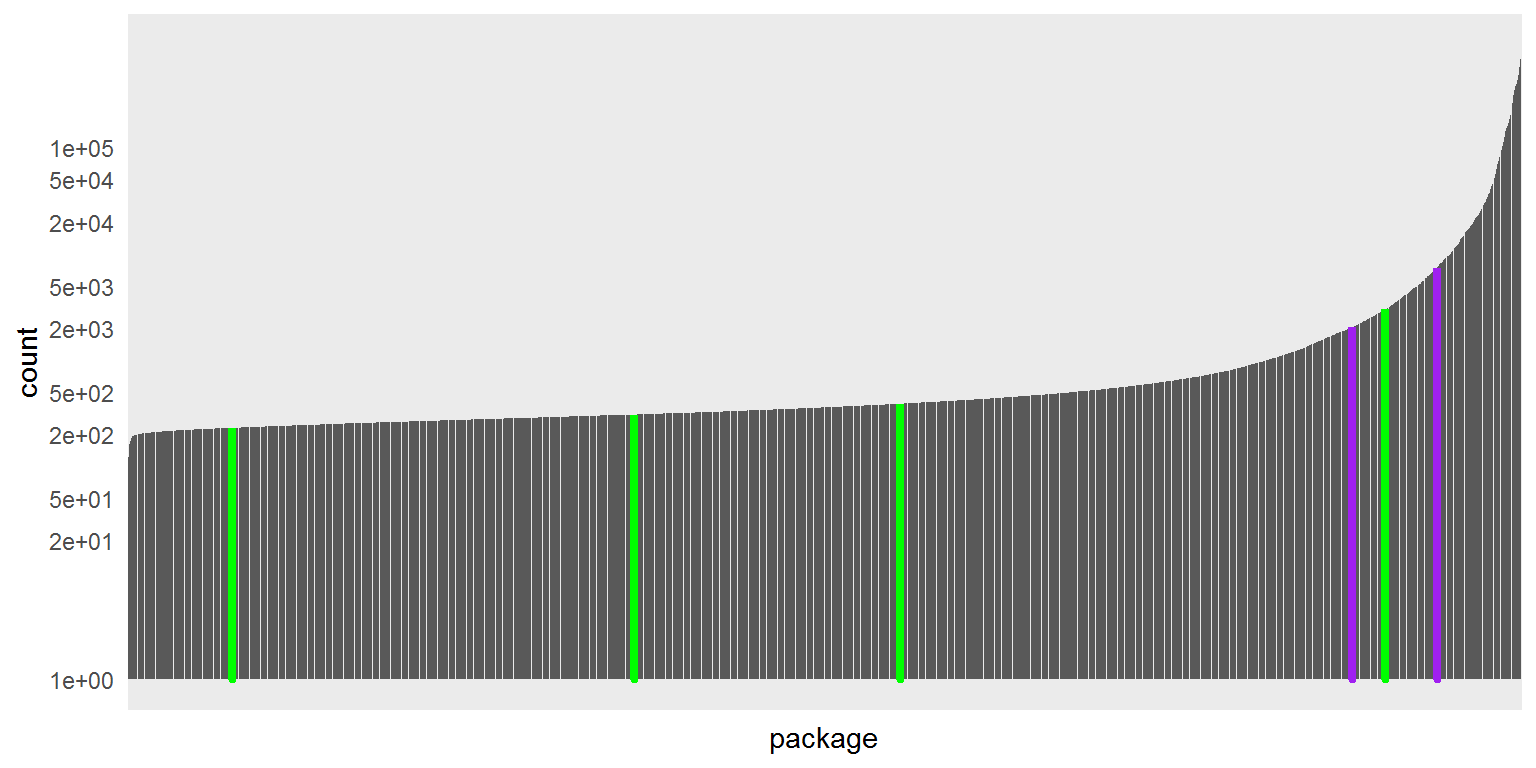
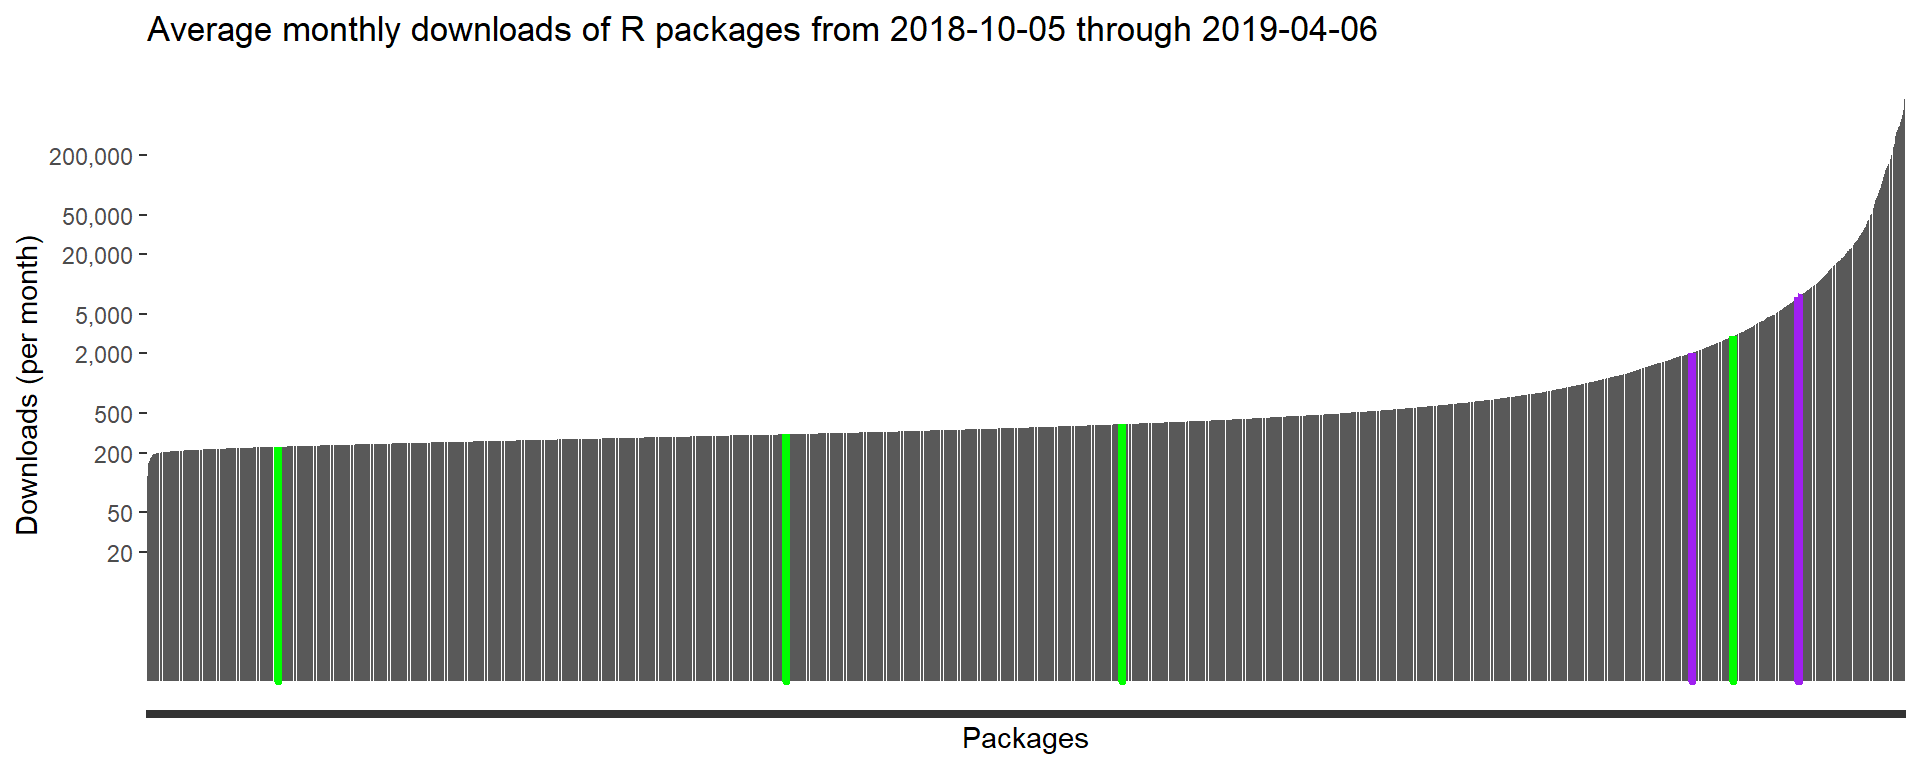
Revised CRAN package downloads post.

Changed region(s): [[0.0, 0.125, 1.0, 1.0], [0.0625, 0.0, 0.7188, 0.0625]]

diff --git a/content/post/CRAN-package-downloads.html b/content/post/CRAN-package-downloads.html
@@ -17,11 +17,17 @@ header:
 
 
 <p>At AERA this past weekend, one of the recurring themes was how software availability (and its usability and default features) influences how people conduct meta-analyses. That got me thinking about the R packages that I’ve developed, how to understand the extent to which people are using them, how they’re being used, and so on. I’ve had badges on my github repos for a while now:</p>
-<p>These statistics come from the <a href="https://www.r-pkg.org/">METACRAN</a> site, which makes available data on daily downloads of all packages on CRAN (one of the main repositories for sharing R packages). The downloads are from the RStudio mirror of CRAN, which is only one of many mirrors around the world. So, although the data do not represent complete tallies of all package downloads, they are nonetheless the best available source that I’m aware of.</p>
-<p>The thing is, the download numbers are pretty hard to interpret. Beyond knowing that somebody out there is at least <em>trying</em> to use the tools I’ve made, it’s pretty hard to gauge whether 300 or 3000 or 3 million downloads a month is a good usage level. In this post, I’ll attempt to put just a little bit of context around these numbers. Emphasis on <em>little bit</em>, as I’m not at all satisfied with what I’ll show below, but at least it’s something beyond four numbers floating in the air.</p>
+<ul>
+<li>clubSandwich: <a href="https://CRAN.R-project.org/package=clubSandwich"><img src="http://cranlogs.r-pkg.org/badges/last-month/clubSandwich" /></a></li>
+<li>ARPobservation: <a href="https://CRAN.R-project.org/package=ARPobservation"><img src="http://cranlogs.r-pkg.org/badges/last-month/ARPobservation" /></a></li>
+<li>scdhlm: <a href="https://CRAN.R-project.org/package=scdhlm"><img src="http://cranlogs.r-pkg.org/badges/last-month/scdhlm" /></a></li>
+<li>SingleCaseES: <a href="https://CRAN.R-project.org/package=SingleCaseES"><img src="http://cranlogs.r-pkg.org/badges/last-month/SingleCaseES" /></a></li>
+</ul>
+<p>These statistics come from the <a href="https://www.r-pkg.org/">METACRAN</a> site, which makes available data on daily downloads of all packages on CRAN (one of the main repositories for sharing R packages). The downloads are from the RStudio mirror of CRAN, which is only one of many mirrors around the world. Although the data do not represent complete tallies of all package downloads, they are nonetheless the best available source that I’m aware of.</p>
+<p>The thing is, the download numbers are rather hard to interpret. Beyond knowing that somebody out there is at least <em>trying</em> to use the tools I’ve made, it’s pretty hard to gauge whether 300 or 3000 or 3 million downloads a month is a good usage level. In this post, I’ll attempt to put just a little bit of context around these numbers. Emphasis on <em>little bit</em>, as I’m not at all satisfied with what I’ll show below, but at least it’s something beyond four numbers floating in the air.</p>
 <div id="getting-package-download-data" class="section level3">
 <h3>Getting package download data</h3>
-<p>Below I use the <code>cranlogs</code> package to get daily download counts of all currently available CRAN packages over the period 2018-04-06 through 2019-04-06. I then limited the sample to packages that had been downloaded at least once between 2018-04-06 and 2018-10-05. This had the effect of excluding about 1000 packages that were either only recently added to CRAN or that had been discontinued but were still sitting on CRAN.</p>
+<p>I used the <code>cranlogs</code> package to get daily download counts of all currently available CRAN packages over the period 2018-04-06 through 2019-04-06. I then limited the sample to packages that had been downloaded at least once between 2018-04-06 and 2018-10-05. This had the effect of excluding about 1000 packages that were either only recently added to CRAN or that had been discontinued but were still sitting on CRAN.</p>
 <pre class="r"><code>library(tidyverse)
 library(lubridate)
 library(cranlogs)
@@ -180,20 +186,28 @@ scdhlm
 </tbody>
 </table>
 <p>Thus, <code>clubSandwich</code> sits in between <code>metafor</code> and <code>robumeta</code>, at the 90th percentile among all active packages on CRAN. The other packages are much less widely downloaded, averaging between 200 and 400 downloads per month. The distribution of monthly download rates is <em>highly</em> skewed, as can be seen in the figure below. About 68% of packages are downloaded 500 times or fewer per month, while only 7% of packages get more than 5000 downloads per month.</p>
-<pre class="r"><code>ggplot(downloads_past_six, aes(x = package, y = count)) +
+<pre class="r"><code>Pusto_pkg_dat &lt;- 
+  downloads_past_six %&gt;%
+  filter(package %in% Pusto_pkgs)
+
+meta_pkg_dat &lt;- 
+  downloads_past_six %&gt;%
+  filter(package %in% meta_pkgs)
+
+title_str &lt;- paste(&quot;Average monthly downloads of R packages from&quot;, as_date(as_date(to_date) - duration(6, &quot;months&quot;)),&quot;through&quot;,to_date)
+
+ggplot(downloads_past_six, aes(x = package, y = count)) +
   geom_col() + 
-  geom_col(data = filter(downloads_past_six, package %in% meta_pkgs), 
-           color = &quot;purple&quot;, size = 1.5) + 
-  geom_col(data = filter(downloads_past_six, package %in% Pusto_pkgs), 
-           color = &quot;green&quot;, size = 1.5) + 
+  geom_col(data = Pusto_pkg_dat, color = &quot;green&quot;, size = 1.5) + 
+  geom_col(data = meta_pkg_dat, color = &quot;purple&quot;, size = 1.5) + 
   scale_x_discrete(labels = NULL) + 
-  scale_y_log10(breaks = c(1, 20, 50, 200, 500, 2000, 5000, 20000, 50000, 100000)) + 
-  theme_minimal()</code></pre>
-<p><img src="/post/CRAN-package-downloads_files/figure-html/unnamed-chunk-6-1.png" width="768" /></p>
+  scale_y_log10(breaks = c(20, 50, 200, 500, 2000, 5000, 20000, 50000, 200000), labels = scales::comma) + 
+  labs(x = &quot;Packages&quot;, y = &quot;Downloads (per month)&quot;, title = title_str)</code></pre>
+<p><img src="/post/CRAN-package-downloads_files/figure-html/unnamed-chunk-6-1.png" width="960" /></p>
 </div>
 <div id="downloads-over-time" class="section level3">
 <h3>Downloads over time</h3>
-<p>Here are the weekly download rates for each of my packages and the two comparables, over the past two years. (Note that the vertical scales of the graphs differ.)</p>
+<p>Here are the weekly download rates for each of my packages over the past two years. (Note that the vertical scales of the graphs differ.)</p>
 <pre class="r"><code>weekly_downloads &lt;- 
   pkg_downloads %&gt;%
   mutate(
@@ -213,13 +227,14 @@ scdhlm
 weekly_downloads %&gt;%
   filter(
     days == 7,
-    package %in% c(Pusto_pkgs, meta_pkgs)
+    package %in% Pusto_pkgs
   ) %&gt;%
-  ggplot(aes(date, count)) + 
+  ggplot(aes(date, count, color = package)) + 
   geom_line() + 
   expand_limits(y = 0) + 
   facet_wrap(~ package, scales = &quot;free&quot;, ncol = 2) + 
-  theme_minimal()</code></pre>
+  theme_minimal() + 
+  theme(legend.position = &quot;none&quot;)</code></pre>
 <p><img src="/post/CRAN-package-downloads_files/figure-html/unnamed-chunk-7-1.png" width="768" /></p>
 <p>There are a couple of curious features in these plots. For one, there are big spikes in downloads of <code>ARPobservation</code> and <code>SingleCaseES</code>. The <code>ARPobservation</code> spike was in mid-June of 2018, when I was at the IES Single-Case Design training institute and demonstrated some of the package’s tools. The <code>SingleCaseES</code> spike was in early January, 2019. Perhaps someone was teaching a class in single-case research and demonstrated the package? Or something at the IES PI meeting (January 9-10, 2019)?</p>
 <p>Another interesting pattern is in the download rate of <code>scdhlm</code>, which looks like it increased systematically starting in September, 2018. I wonder if this was the result of someone demonstrating or incorporating use of the package into a course. Lacking details about where the downloads are coming from, it’s hard to do anything but speculate.</p>
